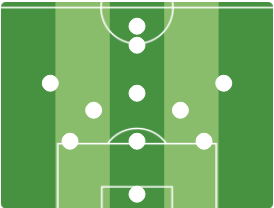
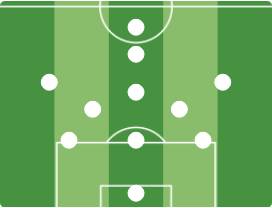
20180831

diff --git a/pages/detail/detail.js b/pages/detail/detail.js
@@ -6,7 +6,7 @@ function getHeightByLocation(location){
   var height;
   switch (location){
     case '前锋': height = 138; break;
-    case '中锋': height = 124; break;
+    case '中锋': height = 116; break;
     case '左内锋': 
     case '右内锋': height = 134; break;
     case '左边锋':
